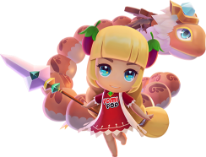
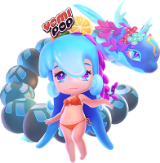
rider-group

diff --git a/styles/home/_join.scss b/styles/home/_join.scss
@@ -54,9 +54,11 @@
     // background-image: url('../image/join-info-BG.png');
 
 }
-.info-BG{
+
+.info-BG {
     width: 100%;
 }
+
 .join-info-inner {
     // border: 1px solid red;
     padding: 43px;
@@ -74,26 +76,132 @@
     color: #FFD560;
     font-size: 22px;
 }
-.info-title-border{
+
+.info-title-border {
     width: 200px;
     border: 1px solid #FFD560;
     margin: 14px auto 26px;
 }
-.join-info-text{
+
+.join-info-text {
     font-size: 16px;
     font-weight: 300;
     color: var(--white);
     line-height: 1.5;
     text-align: center;
 }
+
+.rider-group-block {
+    width: 100%;
+    width: 100%;
+    position: relative;
+    z-index: 0;
+}
+
+.rider-group-block img {
+    width: 100%;
+}
+
 .rider-group {
-    width: 100%;
+    width: 80%;
+    margin: 0 auto;
+    display: flex;
+    justify-content: space-between;
+    align-items: flex-end;
+    z-index: 1;
 }
 
-.rider-group img {
-    width: 100%;
+#rider-01 {
+    max-width: 190px;
+    width: 17%;
+    margin-bottom: -10px;
+    animation: rider 10s ease-in-out 0s infinite;
+
+    @include rwd-max(1000px) {
+        margin-bottom: -0px;
+    }
 }
 
+#rider-02 {
+    max-width: 200px;
+    width: 18%;
+    animation: rider 10s ease-in-out 0.4s infinite;
+}
+
+#rider-03 {
+    max-width: 150px;
+    width: 15%;
+
+    animation: rider 10s ease-in-out 0.8s infinite;
+}
+
+#rider-04 {
+    max-width: 160px;
+    width: 15%;
+    margin-bottom: -20px;
+    animation: rider 10s ease-in-out 0.2s infinite;
+
+    @include rwd-max(1000px) {
+        margin-bottom: -0px;
+    }
+}
+
+#rider-05 {
+    max-width: 190px;
+    width: 18%;
+    margin-bottom: -10px;
+    animation: rider 10s ease-in-out 0.6s infinite;
+    @include rwd-max(1000px) {
+        margin-bottom: -0px;
+    }
+}
+
+@keyframes rider {
+    0% {
+        transform: translateY(0px);
+    }
+
+    2% {
+        transform: translateY(-20px);
+    }
+
+    4% {
+        transform: translateY(0px);
+    }
+
+    100% {
+        transform: translateY(0px);
+    }
+}
+
+.line-animation {
+    position: absolute;
+    bottom: -10%;
+    width: 100%;
+    overflow: hidden;
+    // margin-bottom: -190px;
+    z-index: -1;
+}
+
+#line-animation-run {
+    width: 200%;
+
+    animation: line-animation-run 70s linear infinite;
+}
+
+@keyframes line-animation-run {
+    0% {
+        transform: translateX(0%);
+    }
+
+    50% {
+        transform: translateX(-50%);
+    }
+
+    100% {
+        transform: translateX(0%);
+    }
+}
 
 #partner-area {
     margin-top: 100px;

diff --git a/components/Join.js b/components/Join.js
@@ -58,8 +58,20 @@ export default function Join() {
 
                 </div>
 
-                <div className="rider-group">
-                    <img src={`${process.env.BASE_PATH}/images/join/KK.png`} alt="" />
+                <div className="rider-group-block">
+                    {/* <img src={`${process.env.BASE_PATH}/images/join/KK.png`} alt="" /> */}
+
+                    <div className="rider-group">
+                        <img id="rider-01" src={`${process.env.BASE_PATH}/images/join/K1.png`} alt="" />
+                        <img id="rider-02" src={`${process.env.BASE_PATH}/images/join/K2.png`} alt="" />
+                        <img id="rider-03" src={`${process.env.BASE_PATH}/images/join/K3.png`} alt="" />
+                        <img id="rider-04" src={`${process.env.BASE_PATH}/images/join/K4.png`} alt="" />
+                        <img id="rider-05" src={`${process.env.BASE_PATH}/images/join/K5.png`} alt="" />
+                    </div>
+                    <div className="line-animation">
+                        <img id="line-animation-run" src={`${process.env.BASE_PATH}/images/join/rider-group-line-long.png`} alt="" />
+                    </div>
+
                 </div>
 
 

diff --git a/pages/index.js b/pages/index.js
@@ -18,8 +18,8 @@ export default function Home() {
         <title>PonPonSnake Demo</title>
         <meta name="description" content="Generated by create next app" />
         <meta name="viewport" content="width=device-width, initial-scale=1" />
-        <link rel="icon" type="image/png" href="/images/snake-icon.ico" />
-        {/* <link rel="icon" type="image/png" href="{`${process.env.BASE_PATH}/images/snake-icon.ico`}" /> */}
+        {/* <link rel="icon" type="image/png" href="/images/snake-icon.ico" /> */}
+        <link rel="icon" type="image/png" href={`${process.env.BASE_PATH}/images/snake-icon.ico`} />
 
         <script
           src="https://cdnjs.cloudflare.com/ajax/libs/jquery/3.6.4/jquery.min.js"
